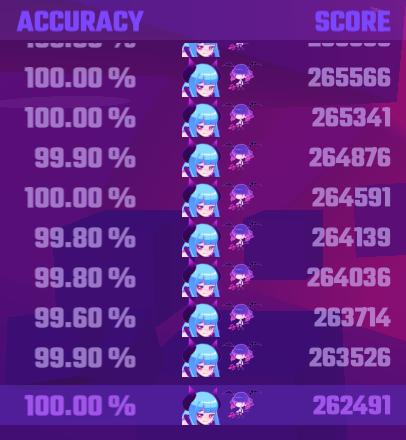
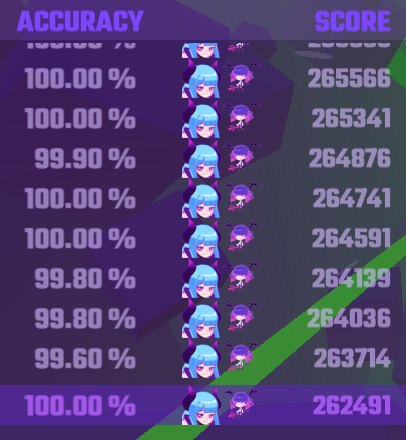
ui tweaks -- tabular numbers: readme updated for new separated default, images and all
the scoreboard for 8* pa*ppa*panic surprisingly didn't change that much since last time i took images; still i had to retake images for existing modes

diff --git a/readme.md b/readme.md
@@ -414,16 +414,18 @@ This small feature adds a quick fade in animation for the character and elfin se
 >This feature reportedly breaks the scoreboard when used with MelonLoader 0.6.*. If you can't upgrade to later versions, disable the feature via preferences.
 
 This feature makes the scoreboard use a font with numbers of the same width, so the values can be compared more easily:
-| Before | After |
-| :---: | :---: |
-| ![not the best image to showcase the accuracy, but take a look at the scores](./readme-images/ui-tweaks/scoreboard-dekoboko.webp) | ![a bit of an acquired taste, i guess](./readme-images/ui-tweaks/scoreboard-even.webp) |
+| Before | After<br>(default) | After<br>(no thousands separator) |
+| :---: | :---: | :---: |
+| ![not the best image to showcase the accuracy, but take a look at the scores](./readme-images/ui-tweaks/scoreboard-dekoboko.webp) | ![inspired by my downloads dashboard formatting update i did on the same day](./readme-images/ui-tweaks/scoreboard-even-w-separator.webp) | ![a bit of an acquired taste, i guess](./readme-images/ui-tweaks/scoreboard-even.webp) |
 
 The custom font is pretty much the same font, except the symbol for "1" (one); just adjusted for monospace numbers.
+
+By default, thousands are also separated with a space. Set `TabularScoreSeparateThousands` to `false` to disable this.
 
 I tried. Font editing is fun.
 
 ### Configuration
-This mod's preferences are used to toggle the mods. In addition, the alternative mode for HP/Fever sync has its own toggle.
+This mod's preferences are used to toggle the individual tweaks. In addition, some of them have additional toggles.
 
 The preferences are stored in MelonLoader's default preferences file, `UserData/MelonPreferences.cfg` (relative to game's root directory). Launching the game with the mod installed should create the following section in the file:
 ```toml
@@ -446,6 +448,8 @@ AchievementsHeaderStyling = true
 CharacterSelectAnimation = true
 # Makes score and accuracy numbers in the scoreboard monospace for easy comparing.
 TabularNumbersScoreboard = true
+# Adds a space separator for thousands in scoreboard, if tabular numbers are on. E.g. 123456 -> 123 456.
+TabularScoreSeparateThousands = true
 ```
 By default, all toggleable features are enabled. Set a relevant value to `false` to disable a feature.
 
